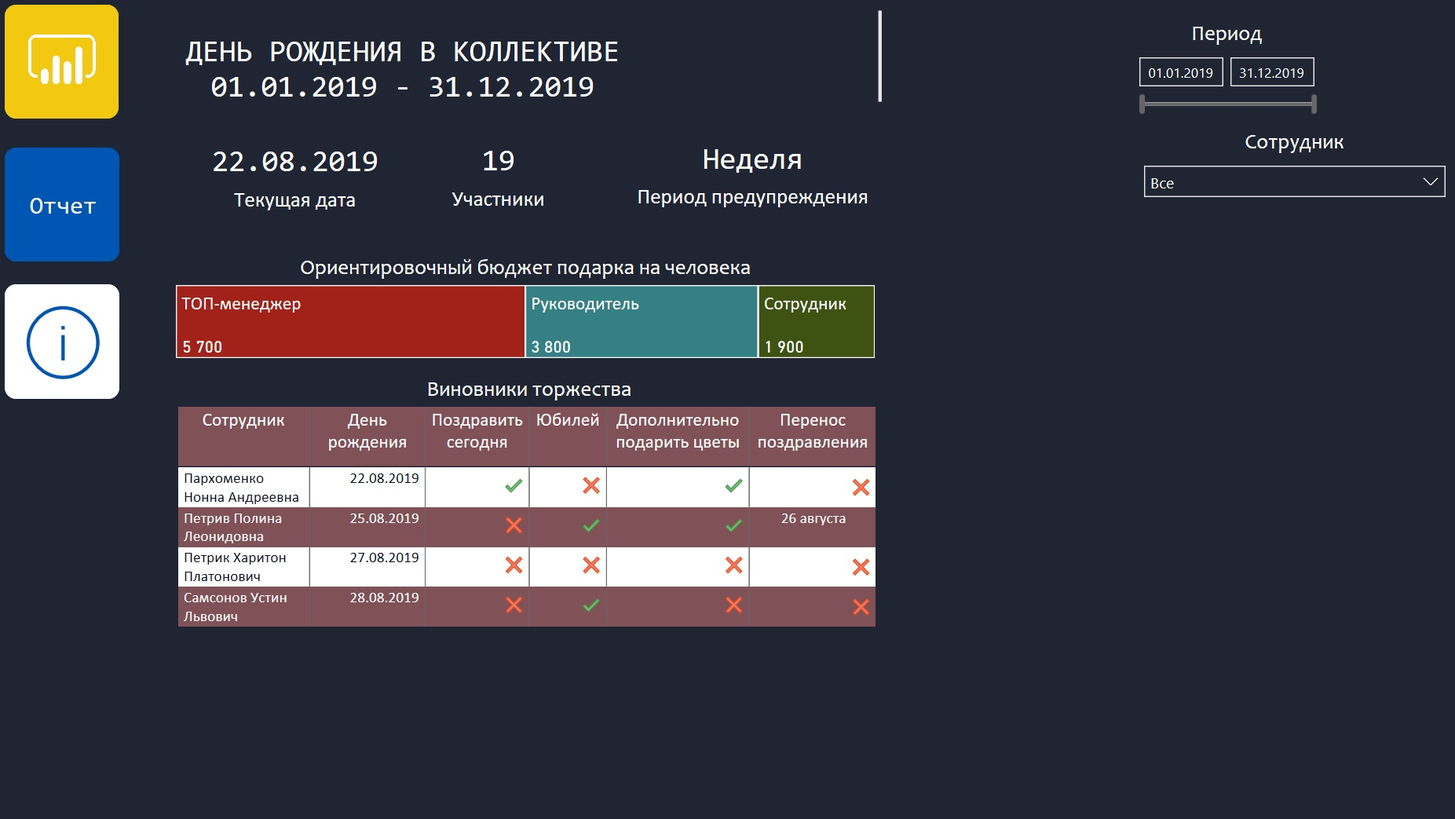
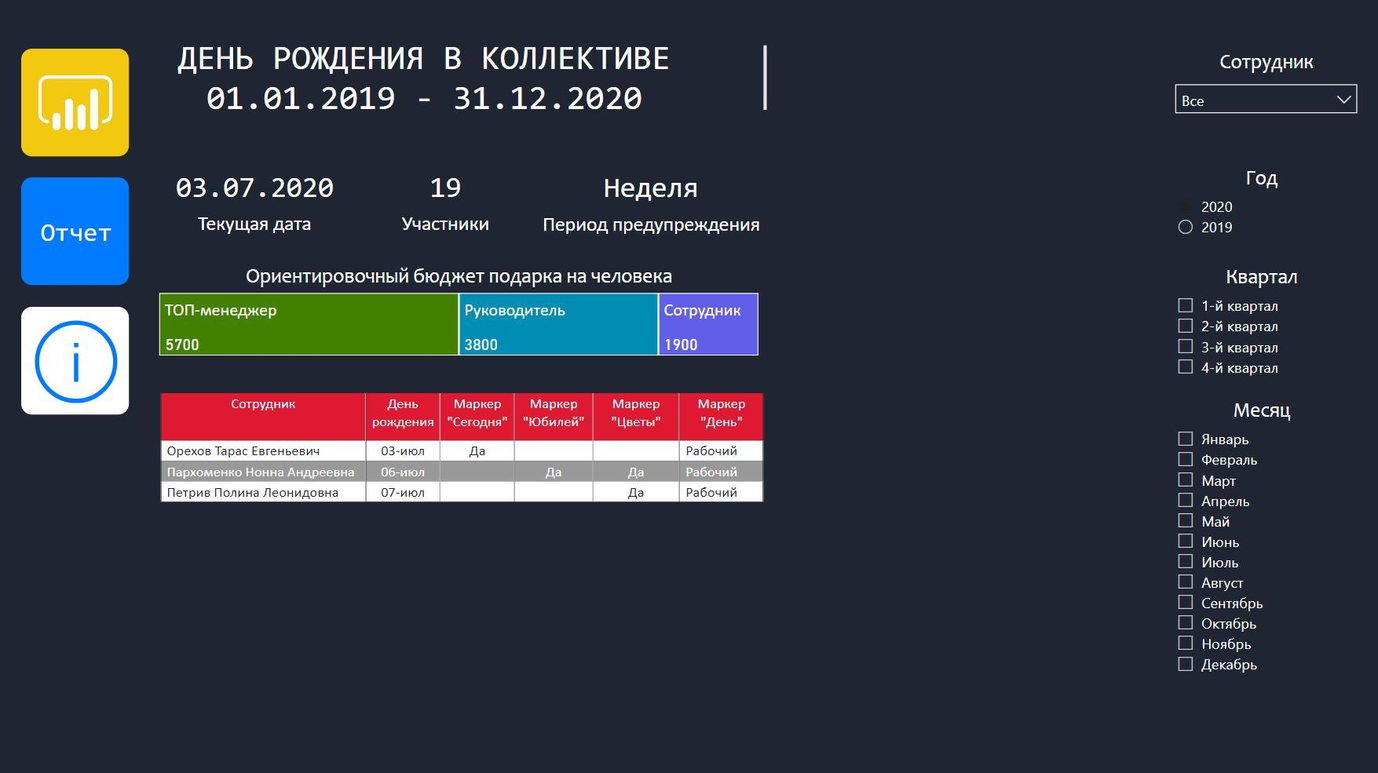
10.07.2020_1

diff --git a/docs/ru/blog/dev_003/index.html b/docs/ru/blog/dev_003/index.html
@@ -154,78 +154,67 @@
 
 <p><img src="https://kkadikin.ru/images/blog/dev_003_screen.jpg" alt="dev_003_screen" /></p>
 
-<p>Отчет реализован при помощи DAX и Power Query, и построен на базе производственного календаря.</p>
+<p>Отчет реализован при помощи DAX и Power Query, и построен на базе производственного календаря (см. отчет <a href="https://kkadikin.ru/ru/blog/development_ru/dev_001/">Производственный календарь</a>.</p>
 
 <blockquote>
-<p><em>Да-да, вы не ошиблись, это снова он - Производственный календарь. Собака Смайл всегда знает, что надо сделать в 1-ю очередь, потому что, несмотря на кажущуюся простоту и обыденность, без этой штуки любому офису никуда!</em></p>
+<p><em>Да-да, вы не ошиблись, это снова он - Производственный календарь. Собака Смайл всегда знает, что надо сделать в первую очередь, потому что, несмотря на кажущуюся простоту и обыденность, без этой штуки любому офису никуда!</em></p>
 </blockquote>
-
-<p>Если кто-то присоединился к аудитории недавно, описание календаря представлено здесь:
-<a href="https://kkadikin.ru/ru/blog/development_ru/dev_001/">Производственный календарь</a></p>
 
 <p><strong>Разработка содержит 2 листа:</strong></p>
 
-<p><strong><li></strong> Как всегда, сам отчет.</p>
+<p><strong><li></strong> Лист «Отчет» &ndash; собственно, сам отчет, содержащий детальные данные по работникам;</p>
 
-<p><strong><li></strong> Памятка пользователя.</p>
+<p><strong><li></strong> Лист «Информация» &ndash; Памятка пользователя.</p>
 
 <p><strong>Используемые элементы:</strong></p>
 
-<p><strong><li></strong> Фильтры (стандартный функционал), боковой панелью фильтрации пользоваться не планируем, поскольку при публикации в интернете она становится недоступной;</p>
-
 <p><strong><li></strong> Кнопки;</p>
+
+<p><strong><li></strong> Иконки;</p>
 
 <p><strong><li></strong> Закладки;</p>
 
 <p><strong><li></strong> В качестве основного элемента используется &ldquo;Table&rdquo; (&ldquo;Таблица&rdquo;), а дополнительных &ndash; &ldquo;Card&rdquo; (&ldquo;Карточка&rdquo;) и &ldquo;Treemap&rdquo; (&ldquo;Диаграмма дерева&rdquo;);</p>
 
-<p><strong><li></strong> Иконки;</p>
-
 <p><strong><li></strong> Дополнительные украшательства &ndash; &ldquo;Text box&rdquo; (&ldquo;Текстовое поле&rdquo;), &ldquo;Shapes&rdquo; (&ldquo;Фигуры&rdquo;).</p>
 
 <p><strong>Процесс разработки:</strong></p>
 
-<p><strong><li></strong> Для указания базового промежутка времени на уровне Power Query были созданы параметры &ldquo;Start_Date&rdquo; и &ldquo;End_Date&rdquo;  &ndash; это даты начала и окончания периода, которые выведены в заголовок отчета.</p>
+<p><strong><li></strong> Для указания базового промежутка времени на уровне Power Query были созданы параметры &ldquo;Начало периода&rdquo; и &ldquo;Конец периода&rdquo; -– это даты начала и окончания периода, которые выведены в название отчета.</p>
 
-<p><strong><li></strong> Создана таблица &ldquo;Calendar&rdquo; &ndash; базовая таблица, определяющая набор дат для расчета.</p>
+<p><strong><li></strong> Создана таблица &ldquo;Календарь&rdquo; &ndash; базовая таблица, определяющая набор дат для расчета.</p>
 
-<p><strong><li></strong> Создана таблица &ldquo;Russian_Holidays&rdquo; &ndash; таблица настройки, содержащая список российских праздников.</p>
+<p><strong><li></strong> Создана таблица &ldquo;Праздники&rdquo; &ndash; таблица настройки, содержащая список российских праздников.</p>
 
-<p><strong><li></strong> Создана таблица &ldquo;Break_Days&rdquo; &ndash; таблица настройки, содержащая даты так называемых &ldquo;перенесенных&rdquo; дней.</p>
+<p><strong><li></strong> Создана таблица &ldquo;Переносы&rdquo; &ndash; таблица настройки, содержащая даты так называемых &ldquo;перенесенных&rdquo; дней.</p>
 
-<p><strong><li></strong> Создана таблица &ldquo;Measure&rdquo; &ndash; техническая таблица, созданная для удобства, складываем туда меры (по старинке), хоть теперь можно их группировать при  помощи каталогов.</p>
+<p><strong><li></strong> Создана таблица &ldquo;Меры&rdquo; &ndash; техническая таблица, созданная для удобства, складываем туда меры (по старинке), хоть теперь можно их группировать при помощи каталогов.</p>
 
-<p><strong><li></strong> Создана таблица &ldquo;Options&rdquo; &ndash; содержит параметры отчета для указания необходимого отрезка времени.</p>
+<p><strong><li></strong> Создана таблица &ldquo;Параметры&rdquo; &ndash; содержит параметры отчета для указания необходимого отрезка времени.</p>
 
-<p><strong><li></strong> Создана таблица &ldquo;Dataset&rdquo; &ndash; содержит набор исходных данных, который имеет минимально необходимую структуру, а именно: наименование сотрудника, дата его рождения, позиция в компании и гендерная принадлежность.</p>
+<p><strong><li></strong> Создана таблица &ldquo;Даты рождения&rdquo; &ndash; содержит набор исходных данных, который имеет минимально необходимую структуру, а именно: сотрудника, дату его рождения, позицию в компании и гендерную принадлежность.</p>
 
 <blockquote>
 <p><em>Для тех, кто не знает, это мальчики или девочки (тут нежное &ldquo;Рвав-рвав-рвав&rdquo;)</em></p>
 </blockquote>
 
-<p><strong><li></strong> Создана таблица &ldquo;Employees&rdquo; &ndash; справочник сотрудников.</p>
+<p><strong><li></strong> Создана таблица &ldquo;Сотрудники&rdquo; &ndash; справочник сотрудников.</p>
 
-<p><strong><li></strong> Создана таблица &ldquo;Positions&rdquo; &ndash; справочник позиции сотрудника в компании, то есть его функциональной роли.</p>
-
-<p><strong><li></strong> Создана таблица &ldquo;Calculations&rdquo; &ndash; таблица является ссылкой на таблицу &ldquo;Dataset&rdquo;, ее содержание практически аналогично исходной таблице, дополнительно сгенерированы даты так называемого &ldquo;технического дня рождения&rdquo;. Это нужно было по 2-м причинам: не нужно генерировать календарь с момента рождения человека, если вдруг нужно будет показать дату в полном формате, то девочки не обидятся :-)</p>
+<p><strong><li></strong> Создана таблица &ldquo;Позиции&rdquo; &ndash; справочник позиции сотрудника в компании, то есть это его функциональная роль.</p>
 
 <p>На этом работы с Power Query завершены.</p>
 
 <p><strong><li></strong> Следующим этапом является проверка связей получившейся модели данных, и их корректировка в случае необходимости. Схема связей представлена ниже:</p>
 
-<p><img src="https://kkadikin.ru/images/blog/dev_002_relations.jpg" alt="dev_002_relations" /></p>
+<p><img src="https://kkadikin.ru/images/blog/dev_003_relations.jpg" alt="dev_002_relations" /></p>
 
-<p><strong><li></strong> Затем при помощи DAX начинаем формировать нужные аналитические разрезы, например, производим деление общего массива данных, сформированного в таблице &ldquo;Calculations&rdquo; на дополнительные составляющие: например, указываем в алгоритме признак того, нужно ли дополнительно приобрести цветы (для девочек!), рассчитываем, нужен ли перенос поздравления в случае, если праздник выпадает на нерабочий день и пр.</p>
+<p><strong><li></strong> Затем при помощи DAX начинаем формировать нужные аналитические разрезы и дополнительные маркеры в таблице «Даты рождения»: например, выводим признак того, совпадает праздник с юбилеем, или нет.</p>
 
 <p><strong><li></strong> Далее при помощи мер рассчитывается количество участников поздравления, а также ориентировочный бюджет подарка на человека, в зависимости от его функциональной роли. Конечно, это можно было сделать параметрами, но, поскольку данное значение не меняется часто, при разработке была использована постоянная сумма сбора: 100 руб. на сотрудника, 200 руб. на руководителя, и 300 руб. на ТОП-менеджера.</p>
 
 <p><strong><li></strong> При визуализации данных были использованы иконки условного форматирования, появившиеся в последнем апдейте.</p>
 
-<blockquote>
-<p><em>Граждане, Смайл &ndash; в тренде, и даже не поленился, и обновил свой отчет <a href="https://kkadikin.ru/images/blog/dev_002_screen.jpg">График работы сотрудников</a> в соответствии с последними веяниями.</em></p>
-</blockquote>
-
-<p><strong><li></strong> Предупреждение о празднике высвечивается за неделю, для особо забывчивых.</p>
+<p><strong><li></strong> Предупреждение о празднике, для особо забывчивых, высвечивается за неделю.</p>
 
 <p><strong><li></strong> Последний шаг &ndash; это дизайн, тут придерживаемся единого стиля)</p>
 
@@ -233,13 +222,13 @@
 
 <p><strong><li></strong> Работа и функционал созданного календаря подробно описана в предыдущей статье, все преимущества сохранены.</p>
 
-<p><strong><li></strong> При разработке сделано допущение, что предупреждать о дне рождения нужно за одну неделю. В принципе, можно лего увеличить, или уменьшить указанных срок.</p>
+<p><strong><li></strong> При разработке сделано допущение, что предупреждать о дне рождения нужно за одну неделю. В принципе, можно легко изменить указанный срок при помощи встроенного фильтра.</p>
 
-<p><strong><li></strong> Отчет имеет встроенную систему напоминаний следующего вида:</p>
+<p><strong><li></strong> Отчет имеет встроенную систему маркеров следующего вида:</p>
 
 <p>&ndash; поздравить нужно сегодня;</p>
 
-<p>&ndash; напоминание о юбилее (диапазон пометки взят в промежутке от 15 до 70 лет);</p>
+<p>&ndash; праздник является юбилеем, для расчета используется промежуток от 15 до 70 лет;</p>
 
 <p>&ndash; напоминание о покупке цветов (делалось для забывчивых мальчиков, если именинник - девочка), однако по запросу можно дополнить данный механизм;</p>
 
@@ -247,11 +236,7 @@
 <p><em>Собака Смайл - толерантный, современный пес!</em></p>
 </blockquote>
 
-<p>&ndash; напоминание о переносе поздравления &ndash; в алгоритме учтено, что в случае нерабочего дня, желательно не забыть позравить в первый рабочий день!</p>
-
 <p><strong><li></strong> Дополнительно обозначен размер презента.</p>
-
-<p><strong><li></strong> При разработке отчета данные исходного набора значений вносились непосредственно в Power BI (таблица &ldquo;Dataset&rdquo;), дабы конечный файл не зависел от внешних источников. Переключение на внешние источники данных не составляет проблем.</p>
 
 <blockquote>
 <p><em>Товарищи, данная разработка &ndash; просто мечта, она реально необходима в каждый офис!</em></p>
@@ -260,6 +245,14 @@
 
 <p><em>Ваш Смайл</em></p>
 </blockquote>
+
+<p><strong>Разработка была обновлена 22 апреля 2020 года:</strong></p>
+
+<p><strong><li></strong> Обновлен расчет производственного календаря.</p>
+
+<p><strong><li></strong> Убраны стандартные значки условного форматирования, поскольку встроенные цвета не подходят под желаемую цветовую гамму.</p>
+
+<p><strong><li></strong> Добавлено цветовое форматирование.</p>
 
 <p><strong>ДЛЯ ЛЮБИТЕЛЕЙ ПОНАЖИМАТЬ НА КНОПОЧКИ</strong></p>
 

diff --git a/docs/ru/blog/page/4/index.html b/docs/ru/blog/page/4/index.html
@@ -178,8 +178,8 @@
                     <div class="post-content">
                         <p>Рвав-рвав, собака Смайл спешит поделиться новостью!
 Представляем вашему вниманию свою 3-ю разработку комплекта отчетности &ldquo;Офисная жизнь&rdquo; &ndash; отчет &ldquo;День рождения в коллективе&rdquo;, иллюстрирующий праздничные события.
- Отчет реализован при помощи DAX и Power Query, и построен на базе производственного календаря.
- Да-да, вы не ошиблись, это снова он - Производственный календарь. Собака Смайл всегда знает, что надо сделать в 1-ю очередь, потому что, несмотря на кажущуюся простоту и обыденность, без этой штуки любому офису никуда!</p>
+ Отчет реализован при помощи DAX и Power Query, и построен на базе производственного календаря (см. отчет Производственный календарь.
+ Да-да, вы не ошиблись, это снова он - Производственный календарь. Собака Смайл всегда знает, что надо сделать в первую очередь, потому что, несмотря на кажущуюся простоту и обыденность, без этой штуки любому офису никуда!</p>
                     </div>
                     <a class="btn btn-main" href="https://kkadikin.ru/ru/blog/dev_003/">Read more</a>
                 </div>

diff --git a/docs/ru/blog/dev_002/index.html b/docs/ru/blog/dev_002/index.html
@@ -154,7 +154,7 @@
 
 <p><img src="https://kkadikin.ru/images/blog/dev_002_screen.jpg" alt="График работы сотрудников" /></p>
 
-<p>Отчет реализован при помощи DAX и Power Query, и построен на базе производственного календаря.</p>
+<p>Отчет реализован при помощи DAX и Power Query, и построен на базе производственного календаря (см. отчет <a href="https://kkadikin.ru/ru/blog/development_ru/dev_001/">Производственный календарь</a>.</p>
 
 <p><strong>Помимо распределения нерабочих дней согласно календарю, содержит следующие расчеты, которые можно получить по каждому работнику:</strong></p>
 
@@ -166,7 +166,7 @@
 
 <p><strong><li></strong> Количество дней по больничному листу.</p>
 
-<p>Все показатели рассчитаны при помощи мер на уровне DAX, а исходный набор дат получен при помощи Power Query (см. отчет <a href="https://kkadikin.ru/ru/blog/development_ru/dev_001/">Производственный календарь</a>)</p>
+<p>Все показатели рассчитаны при помощи мер на уровне DAX, а исходный набор дат получен при помощи Power Query.</p>
 
 <p><strong>Разработка содержит 2 листа:</strong></p>
 

diff --git a/docs/ru/blog/page/5/index.html b/docs/ru/blog/page/5/index.html
@@ -212,11 +212,10 @@
                     <div class="post-content">
                         <p>Рвав-рвав, собака Смайл на связи!
 Представляем вашему вниманию свою 2-ю разработку комплекта отчетности &ldquo;Офисная жизнь&rdquo; &ndash; отчет &ldquo;График работы сотрудников&rdquo;, иллюстрирующий доступность сотрудников в плане выполнения поставленных задач.
- Отчет реализован при помощи DAX и Power Query, и построен на базе производственного календаря.
+ Отчет реализован при помощи DAX и Power Query, и построен на базе производственного календаря (см. отчет Производственный календарь.
 Помимо распределения нерабочих дней согласно календарю, содержит следующие расчеты, которые можно получить по каждому работнику:
  Количество рабочих дней.
- Количество дней отпуска.
- Количество взятых отгулов.</p>
+ Количество дней отпуска.</p>
                     </div>
                     <a class="btn btn-main" href="https://kkadikin.ru/ru/blog/dev_002/">Read more</a>
                 </div>

diff --git a/content/blog/Dev_003.ru.md b/content/blog/Dev_003.ru.md
@@ -12,57 +12,52 @@ author: Smile
 
 ![dev_003_screen](https://kkadikin.ru/images/blog/dev_003_screen.jpg)
 
-Отчет реализован при помощи DAX и Power Query, и построен на базе производственного календаря.
+Отчет реализован при помощи DAX и Power Query, и построен на базе производственного календаря (см. отчет [Производственный календарь](https://kkadikin.ru/ru/blog/development_ru/dev_001/).
 
-> *Да-да, вы не ошиблись, это снова он - Производственный календарь. Собака Смайл всегда знает, что надо сделать в 1-ю очередь, потому что, несмотря на кажущуюся простоту и обыденность, без этой штуки любому офису никуда!*
-
-Если кто-то присоединился к аудитории недавно, описание календаря представлено здесь:
-[Производственный календарь](https://kkadikin.ru/ru/blog/development_ru/dev_001/)
+> *Да-да, вы не ошиблись, это снова он - Производственный календарь. Собака Смайл всегда знает, что надо сделать в первую очередь, потому что, несмотря на кажущуюся простоту и обыденность, без этой штуки любому офису никуда!*
 
 
 **Разработка содержит 2 листа:**
 
-**<li>** Как всегда, сам отчет.
+**<li>** Лист «Отчет» -- собственно, сам отчет, содержащий детальные данные по работникам; 
 
-**<li>** Памятка пользователя.
+**<li>** Лист «Информация» -- Памятка пользователя.
+
 
 **Используемые элементы:**
 
-**<li>** Фильтры (стандартный функционал), боковой панелью фильтрации пользоваться не планируем, поскольку при публикации в интернете она становится недоступной;
-
 **<li>** Кнопки;
+
+**<li>** Иконки;
 
 **<li>** Закладки;
 
 **<li>** В качестве основного элемента используется "Table" ("Таблица"), а дополнительных -- "Card" ("Карточка") и "Treemap" ("Диаграмма дерева");
 
-**<li>** Иконки;
-
 **<li>** Дополнительные украшательства -- "Text box" ("Текстовое поле"), "Shapes" ("Фигуры").
+
 
 **Процесс разработки:**
 
-**<li>** Для указания базового промежутка времени на уровне Power Query были созданы параметры "Start_Date" и "End_Date"  -- это даты начала и окончания периода, которые выведены в заголовок отчета.
+**<li>** Для указания базового промежутка времени на уровне Power Query были созданы параметры "Начало периода" и "Конец периода" -– это даты начала и окончания периода, которые выведены в название отчета.
 
-**<li>** Создана таблица "Calendar" -- базовая таблица, определяющая набор дат для расчета.
+**<li>** Создана таблица "Календарь" -- базовая таблица, определяющая набор дат для расчета.
 
-**<li>** Создана таблица "Russian_Holidays" -- таблица настройки, содержащая список российских праздников.
+**<li>** Создана таблица "Праздники" -- таблица настройки, содержащая список российских праздников.
 
-**<li>** Создана таблица "Break_Days" -- таблица настройки, содержащая даты так называемых "перенесенных" дней.
+**<li>** Создана таблица "Переносы" -- таблица настройки, содержащая даты так называемых "перенесенных" дней.
 
-**<li>** Создана таблица "Measure" -- техническая таблица, созданная для удобства, складываем туда меры (по старинке), хоть теперь можно их группировать при  помощи каталогов.
+**<li>** Создана таблица "Меры" -- техническая таблица, созданная для удобства, складываем туда меры (по старинке), хоть теперь можно их группировать при помощи каталогов.
 
-**<li>** Создана таблица "Options" -- содержит параметры отчета для указания необходимого отрезка времени.
+**<li>** Создана таблица "Параметры" -- содержит параметры отчета для указания необходимого отрезка времени.
 
-**<li>** Создана таблица "Dataset" -- содержит набор исходных данных, который имеет минимально необходимую структуру, а именно: наименование сотрудника, дата его рождения, позиция в компании и гендерная принадлежность.
+**<li>** Создана таблица "Даты рождения" -- содержит набор исходных данных, который имеет минимально необходимую структуру, а именно: сотрудника, дату его рождения, позицию в компании и гендерную принадлежность.
 
 > *Для тех, кто не знает, это мальчики или девочки (тут нежное "Рвав-рвав-рвав")*
 
-**<li>** Создана таблица "Employees" -- справочник сотрудников.
+**<li>** Создана таблица "Сотрудники" -- справочник сотрудников.
 
-**<li>** Создана таблица "Positions" -- справочник позиции сотрудника в компании, то есть его функциональной роли.
-
-**<li>** Создана таблица "Calculations" -- таблица является ссылкой на таблицу "Dataset", ее содержание практически аналогично исходной таблице, дополнительно сгенерированы даты так называемого "технического дня рождения". Это нужно было по 2-м причинам: не нужно генерировать календарь с момента рождения человека, если вдруг нужно будет показать дату в полном формате, то девочки не обидятся :-)
+**<li>** Создана таблица "Позиции" -- справочник позиции сотрудника в компании, то есть это его функциональная роль.
 
 На этом работы с Power Query завершены. 
 
@@ -70,15 +65,13 @@ author: Smile
 
 ![dev_002_relations](https://kkadikin.ru/images/blog/dev_003_relations.jpg)
 
-**<li>** Затем при помощи DAX начинаем формировать нужные аналитические разрезы, например, производим деление общего массива данных, сформированного в таблице "Calculations" на дополнительные составляющие: например, указываем в алгоритме признак того, нужно ли дополнительно приобрести цветы (для девочек!), рассчитываем, нужен ли перенос поздравления в случае, если праздник выпадает на нерабочий день и пр.
+**<li>** Затем при помощи DAX начинаем формировать нужные аналитические разрезы и дополнительные маркеры в таблице «Даты рождения»: например, выводим признак того, совпадает праздник с юбилеем, или нет.
 
 **<li>** Далее при помощи мер рассчитывается количество участников поздравления, а также ориентировочный бюджет подарка на человека, в зависимости от его функциональной роли. Конечно, это можно было сделать параметрами, но, поскольку данное значение не меняется часто, при разработке была использована постоянная сумма сбора: 100 руб. на сотрудника, 200 руб. на руководителя, и 300 руб. на ТОП-менеджера.
 
 **<li>** При визуализации данных были использованы иконки условного форматирования, появившиеся в последнем апдейте. 
 
-> *Граждане, Смайл -- в тренде, и даже не поленился, и обновил свой отчет [График работы сотрудников](https://kkadikin.ru/images/blog/dev_002_screen.jpg) в соответствии с последними веяниями.*
-
-**<li>** Предупреждение о празднике высвечивается за неделю, для особо забывчивых.
+**<li>** Предупреждение о празднике, для особо забывчивых, высвечивается за неделю.
 
 **<li>** Последний шаг -- это дизайн, тут придерживаемся единого стиля)
 
@@ -86,29 +79,35 @@ author: Smile
 
 **<li>** Работа и функционал созданного календаря подробно описана в предыдущей статье, все преимущества сохранены.
 
-**<li>** При разработке сделано допущение, что предупреждать о дне рождения нужно за одну неделю. В принципе, можно лего увеличить, или уменьшить указанных срок.
+**<li>** При разработке сделано допущение, что предупреждать о дне рождения нужно за одну неделю. В принципе, можно легко изменить указанный срок при помощи встроенного фильтра.
 
-**<li>** Отчет имеет встроенную систему напоминаний следующего вида:
+**<li>** Отчет имеет встроенную систему маркеров следующего вида:
 
 -- поздравить нужно сегодня;
 
--- напоминание о юбилее (диапазон пометки взят в промежутке от 15 до 70 лет);
+-- праздник является юбилеем, для расчета используется промежуток от 15 до 70 лет;
 
 -- напоминание о покупке цветов (делалось для забывчивых мальчиков, если именинник - девочка), однако по запросу можно дополнить данный механизм;
 
 > *Собака Смайл - толерантный, современный пес!*
 
--- напоминание о переносе поздравления -- в алгоритме учтено, что в случае нерабочего дня, желательно не забыть позравить в первый рабочий день!
-
 **<li>** Дополнительно обозначен размер презента.
-
-**<li>** При разработке отчета данные исходного набора значений вносились непосредственно в Power BI (таблица "Dataset"), дабы конечный файл не зависел от внешних источников. Переключение на внешние источники данных не составляет проблем.
 
 > *Товарищи, данная разработка -- просто мечта, она реально необходима в каждый офис!*
 >
 > *За сим -- прощаюсь, пойду играть с маленькой хозяйкой, приобрел себе новую игрушку, но, видимо, не совсем себе, а на двоих...*
 >
 > *Ваш Смайл*
+
+
+**Разработка была обновлена 22 апреля 2020 года:**
+
+**<li>** Обновлен расчет производственного календаря.
+
+**<li>** Убраны стандартные значки условного форматирования, поскольку встроенные цвета не подходят под желаемую цветовую гамму.
+
+**<li>** Добавлено цветовое форматирование.
+
 
 **ДЛЯ ЛЮБИТЕЛЕЙ ПОНАЖИМАТЬ НА КНОПОЧКИ**
 

diff --git a/content/blog/Dev_002.ru.md b/content/blog/Dev_002.ru.md
@@ -12,7 +12,7 @@ author: Smile
 
 ![График работы сотрудников](https://kkadikin.ru/images/blog/dev_002_screen.jpg)
 
-Отчет реализован при помощи DAX и Power Query, и построен на базе производственного календаря.
+Отчет реализован при помощи DAX и Power Query, и построен на базе производственного календаря (см. отчет [Производственный календарь](https://kkadikin.ru/ru/blog/development_ru/dev_001/).
 
 
 **Помимо распределения нерабочих дней согласно календарю, содержит следующие расчеты, которые можно получить по каждому работнику:** 
@@ -25,7 +25,7 @@ author: Smile
 
 **<li>** Количество дней по больничному листу.
 
-Все показатели рассчитаны при помощи мер на уровне DAX, а исходный набор дат получен при помощи Power Query (см. отчет [Производственный календарь](https://kkadikin.ru/ru/blog/development_ru/dev_001/))
+Все показатели рассчитаны при помощи мер на уровне DAX, а исходный набор дат получен при помощи Power Query.
 
 
 **Разработка содержит 2 листа:**
